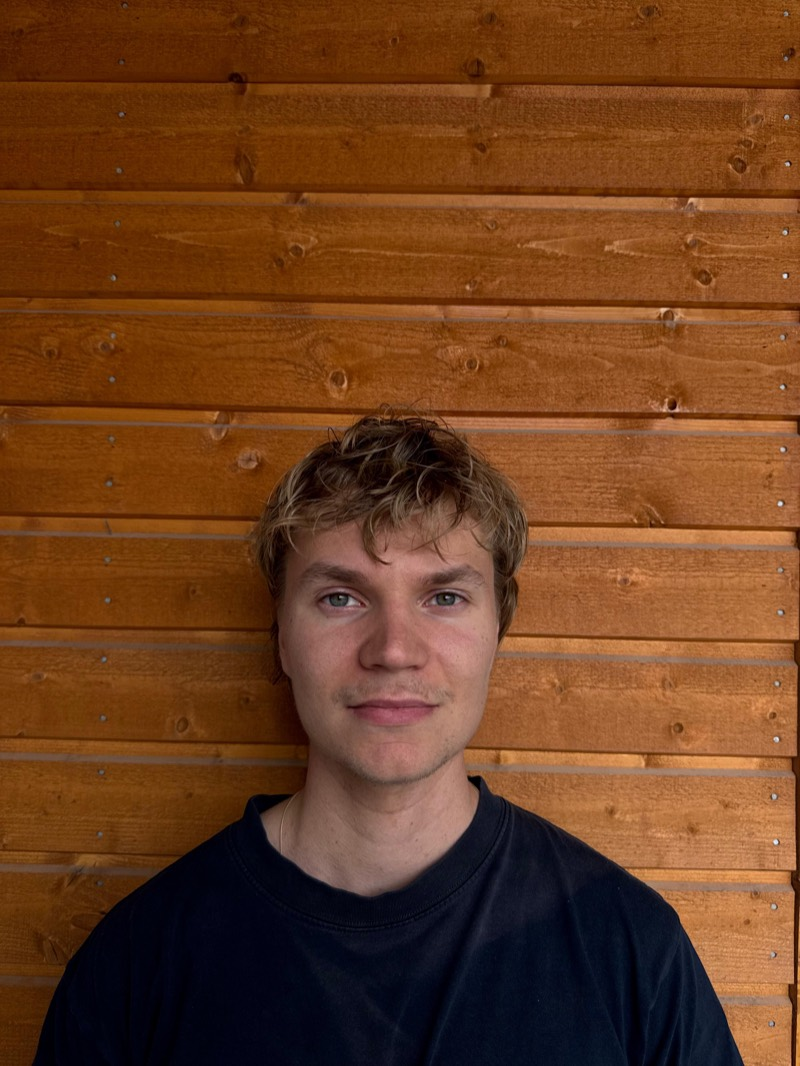
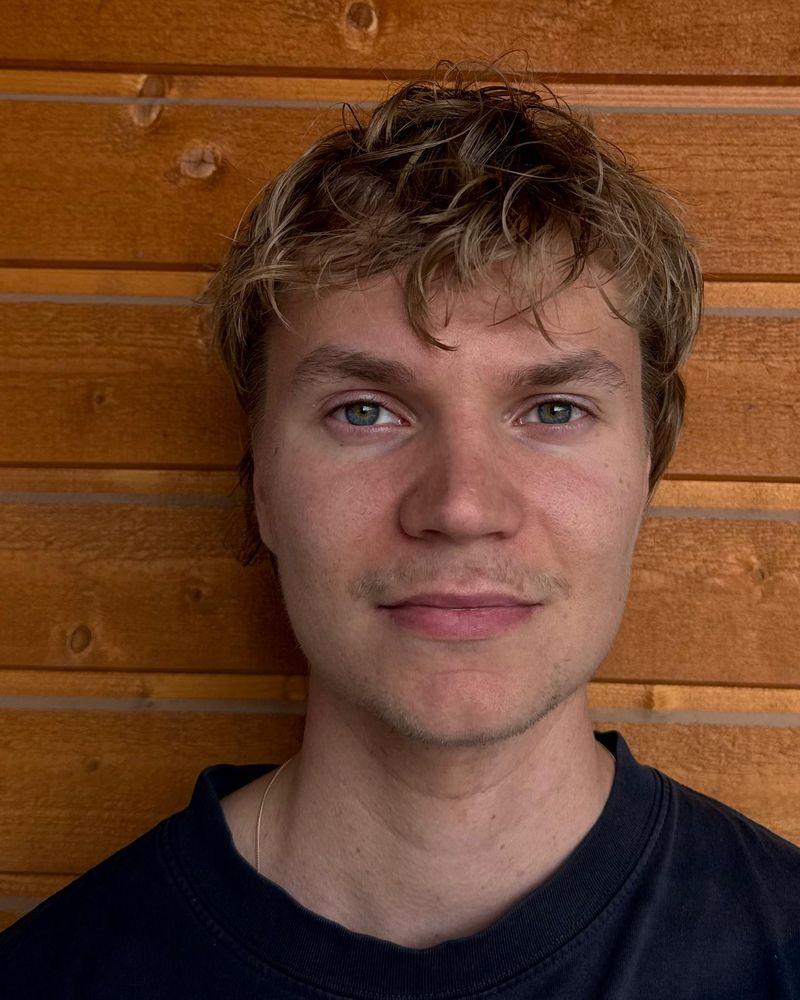
Meista: lisaa nimet (Josua, Daniel), rajaa kuvat, poista etusivun tiimiosio
- Nimet kortteihin: Josua (omistaja), Daniel (puheenjohtaja & asentaja).
- Kuvat rajattu 4:5 (Josua lahemmas, Daniel oikealta niin olkapaa pois).
- Tiimiosio pois etusivulta (Meista-sivu jaa); /VARAUS-leikkausmerkki jaa.

diff --git a/tiiviskoti/meista.html b/tiiviskoti/meista.html
@@ -59,17 +59,19 @@
 <section class="sec" style="padding-top:clamp(20px,3vw,32px)"><div class="wrap">
   <div class="rv" style="display:grid;grid-template-columns:repeat(2,minmax(0,1fr));gap:22px;max-width:720px">
     <figure style="margin:0;background:var(--card);border:1px solid var(--line);border-radius:20px;overflow:hidden">
-      <img src="img/meista-omistaja.jpg" alt="TiivisKodin omistaja" width="800" height="1066" loading="lazy" style="width:100%;height:auto;display:block;aspect-ratio:4/5;object-fit:cover;object-position:center 22%" />
+      <img src="img/meista-omistaja.jpg" alt="Josua, TiivisKodin omistaja" width="800" height="1000" loading="lazy" style="width:100%;height:auto;display:block;aspect-ratio:4/5;object-fit:cover;object-position:center" />
       <figcaption style="padding:16px 18px">
-        <b style="display:block;font-size:17px;color:var(--ink)">Omistaja &amp; asentaja</b>
-        <span style="display:block;margin-top:6px;font-size:14.5px;line-height:1.55;color:var(--text)">Vastaa yrityksestä ja hinnoittelusta — ja siitä että jokainen käynti hoidetaan juuri niin kuin on luvattu.</span>
+        <b style="display:block;font-size:18px;color:var(--ink)">Josua</b>
+        <span style="display:block;margin-top:2px;font-size:14px;font-weight:700;color:var(--green)">Omistaja &amp; asentaja</span>
+        <span style="display:block;margin-top:9px;font-size:14.5px;line-height:1.55;color:var(--text)">Vastaa yrityksestä ja hinnoittelusta — ja siitä että jokainen käynti hoidetaan juuri niin kuin on luvattu.</span>
       </figcaption>
     </figure>
     <figure style="margin:0;background:var(--card);border:1px solid var(--line);border-radius:20px;overflow:hidden">
-      <img src="img/meista-asentaja.jpg" alt="TiivisKodin puheenjohtaja ja asentaja" width="800" height="1066" loading="lazy" style="width:100%;height:auto;display:block;aspect-ratio:4/5;object-fit:cover;object-position:center 22%" />
+      <img src="img/meista-asentaja.jpg" alt="Daniel, TiivisKodin puheenjohtaja ja asentaja" width="800" height="1000" loading="lazy" style="width:100%;height:auto;display:block;aspect-ratio:4/5;object-fit:cover;object-position:center" />
       <figcaption style="padding:16px 18px">
-        <b style="display:block;font-size:17px;color:var(--ink)">Puheenjohtaja &amp; asentaja</b>
-        <span style="display:block;margin-top:6px;font-size:14.5px;line-height:1.55;color:var(--text)">Tekee kartoitukset ja tiivisteasennukset itse työmaalla. Sinua palvelee sama henkilö alusta loppuun.</span>
+        <b style="display:block;font-size:18px;color:var(--ink)">Daniel</b>
+        <span style="display:block;margin-top:2px;font-size:14px;font-weight:700;color:var(--green)">Puheenjohtaja &amp; asentaja</span>
+        <span style="display:block;margin-top:9px;font-size:14.5px;line-height:1.55;color:var(--text)">Tekee kartoitukset ja tiivisteasennukset itse työmaalla. Sinua palvelee sama henkilö alusta loppuun.</span>
       </figcaption>
     </figure>
   </div>

diff --git a/tiiviskoti/index.html b/tiiviskoti/index.html
@@ -966,23 +966,6 @@ nav.top .wrap{display:flex;align-items:center;height:74px;gap:22px}
 
 <!-- /VARAUS -->
 
-<!-- MEISTÄ (vain etusivu; jää aluesivujen laskurileikkauksen ulkopuolelle) -->
-<section class="sec" id="meista"><div class="wrap">
-  <div class="center rv"><div class="kicker">Meistä</div><h2 class="title">Kaksi tekijää, ei alihankintaa</h2>
-    <p class="sub">Meidät tapaat myös työmaalla — sama porukka vastaa puhelimeen, kartoittaa ja asentaa.</p></div>
-  <div class="rv" style="display:grid;grid-template-columns:repeat(2,minmax(0,1fr));gap:18px;max-width:560px;margin:26px auto 0">
-    <figure style="margin:0;background:var(--card);border:1px solid var(--line);border-radius:18px;overflow:hidden">
-      <img src="img/meista-omistaja.jpg" alt="TiivisKodin omistaja" width="800" height="1066" loading="lazy" style="width:100%;height:auto;display:block;aspect-ratio:4/5;object-fit:cover;object-position:center 22%">
-      <figcaption style="padding:13px 15px"><b style="display:block;color:var(--ink)">Omistaja &amp; asentaja</b></figcaption>
-    </figure>
-    <figure style="margin:0;background:var(--card);border:1px solid var(--line);border-radius:18px;overflow:hidden">
-      <img src="img/meista-asentaja.jpg" alt="TiivisKodin puheenjohtaja ja asentaja" width="800" height="1066" loading="lazy" style="width:100%;height:auto;display:block;aspect-ratio:4/5;object-fit:cover;object-position:center 22%">
-      <figcaption style="padding:13px 15px"><b style="display:block;color:var(--ink)">Puheenjohtaja &amp; asentaja</b></figcaption>
-    </figure>
-  </div>
-  <p class="center" style="margin-top:20px"><a href="meista.html" style="color:var(--green);font-weight:700">Lue lisää meistä →</a></p>
-</div></section>
-
 <!-- MIKSI ME -->
 
 <section class="sec alt" id="miksi"><div class="wrap why">
